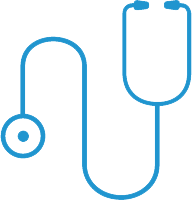
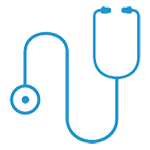
19/4

Changed region(s): [[0.0, 0.0, 1.0, 1.0]]

diff --git a/css/style.css b/css/style.css
@@ -44,6 +44,9 @@ h4 {
 .color {
 	color: #444;
 }
+.container {
+    width: 82%;
+}
 .heading_large {
 	font-size: 57px;
 }
@@ -74,8 +77,11 @@ h4 {
 	background-color: rgba(255,255,255,.5);
 }
 .btn-default.focus,.btn-default:hover,.btn-default:active,.btn-default.active,.open > .dropdown-toggle.btn-default, .btn-primary {
-  	background-color: #31bff1 !important;
-  	color: #fff !important;
+  	color: #fff;
+    border-color: rgb(79,172,254);
+    background: -moz-linear-gradient( 0deg, rgb(79,172,254) 0%, rgb(0,242,254) 100%);
+    background: -webkit-linear-gradient( 0deg, rgb(79,172,254) 0%, rgb(0,242,254) 100%);
+    background: -ms-linear-gradient( 0deg, rgb(79,172,254) 0%, rgb(0,242,254) 100%);
 }
 .btn-primary {
 	border: none;
@@ -186,11 +192,12 @@ h4 {
     width: 100%;   
     margin: auto;
     margin: auto;
-    padding: .5em 0;
+    padding: .35em 0;
     font-family: 'Robotto-Thin';
 }
 .famous_regions_div:hover h2, .famous_events_div:hover h2 {
-	background: url(../images/menu_swipe.png) no-repeat;
+	background: url(../images/menu_swipe.png) no-repeat;	
+    background-size: 100%;
     color: #fff;
     background-size: cover;
     font-weight: 600;
@@ -247,19 +254,18 @@ div.hover_details, .zoom:hover p.normal_details, .zoom:hover img.image_normal, i
 }
 .famous_events_div {
 	padding: 0;
-	height: auto;
-    margin: 0 auto 12%;
+	height: 440px;
+    margin: 0 auto 20%;
     border-radius: 30px !important;
     width: 90%;
-}
-.famous_events_div:hover {
-	background-color: transparent;
 }
 .outer-wrapper{
 	position: relative;
 }
-.outer-wrapper img{
-	width: 100%;
+.outer-wrapper img {
+    width: 100%;
+    height: 440px;
+    border-radius: 30px !important;
 }
 .cover, .trekking_cover, .trekking2_cover, .site_seeing_cover, .paragliding_cover, .fishing_cover, .culture_cover {
 	position: absolute;
@@ -273,22 +279,22 @@ div.hover_details, .zoom:hover p.normal_details, .zoom:hover img.image_normal, i
 	display: block;
 }
 .trekking_cover {
-	background: url(../images/trekking.png) no-repeat 50% 25%;
+	background: url(../images/visas.png) no-repeat 50% 25%;
 }
 .trekking2_cover {
-	background: url(../images/trekking2.png) no-repeat 50% 25%;
+	background: url(../images/best-time.png) no-repeat 50% 25%;
 }
 .site_seeing_cover {
-	background: url(../images/siteseeing2.png) no-repeat 50% 25%;
+	background: url(../images/money-and-costs.png) no-repeat 50% 25%;
 }
 .paragliding_cover {
-	background: url(../images/paraglide2.png) no-repeat 50% 25%;
+	background: url(../images/health.png) no-repeat 50% 25%;
 }
 .fishing_cover {
-	background: url(../images/fishing2.png) no-repeat 50% 25%;
+	background: url(../images/visas.png) no-repeat 50% 25%;
 }
 .culture_cover {
-	background: url(../images/cult2.png) no-repeat 50% 25%;
+	background: url(../images/money-and-costs.png) no-repeat 50% 25%;
 }
 .cover {	
 	background-color: #f6f6f6;
@@ -337,6 +343,9 @@ a.guide_link:hover {
 .left {
 	float: left;
 }
+.tours_image_div {
+	min-height: 230px;
+}
 
 
 
@@ -349,6 +358,12 @@ a.guide_link:hover {
 	    min-height: 200px;
 	    margin-bottom: 15%;
 	}
+	.famous_events_div {
+		height: 420px;
+	}
+	.outer-wrapper img {
+	    height: 420px;
+	}
 	.footer > .col-sm-8 {
 		width: 100%;
 		margin: auto;
@@ -357,6 +372,11 @@ a.guide_link:hover {
 	    display: inline-block;
 	    padding: 1em;
 	} 
+}
+@media (min-width: 992px) {
+  .container {
+    width: 82%;
+  }
 }
 @media (max-width: 768px) {
 	.famous_regions_div {
@@ -370,6 +390,15 @@ a.guide_link:hover {
 	    position: relative;
 	    top: 12%;
 	}
+	.famous_events_div {
+		height: 360px;
+	}
+	.outer-wrapper img {
+	    height: 360px;
+	}
+	.container {
+	    width: 82%;
+	  }
 }
 @media (max-width: 767px) {
 	.intro-text {
@@ -394,4 +423,14 @@ a.guide_link:hover {
 	.footer ul {
 	    padding: 0;
 	}
+	@media (max-width: 500px) {
+	.famous_events_div {
+		height: 320px;
+	}
+	.outer-wrapper img {
+	    height: 320px;
+	}
 }
+}
+
+

diff --git a/details.php b/details.php
@@ -36,8 +36,8 @@
 			<!-- TREKKING dIV -->
 			<div class="col-lg-4 col-sm-6 col-xs-12">
 				<div class="text-center zoom famous_events_div outer-wrapper margins padding">
-					<img id="trekking_normal" class="image_normal" src="./images/Swat_valley_blurred.png" />
-					<img id="trekking_hover" class="image_hover" src="./images/Swat_valley_blurred.png" />	
+					<img id="trekking_normal" class="image_normal" src="images/Swat_valley_blurred.png" />
+					<img id="trekking_hover" class="image_hover" src="images/img-1.jpg" />	
 					<div class="cover trekking_cover">
 						<div class="has_wrapper">
 							<h2 class="color-black">Trekking</h2>
@@ -58,8 +58,8 @@
 			<!-- TREKKING 2 dIV -->
 			<div class="col-lg-4 col-sm-6 col-xs-12">
 				<div class="text-center zoom famous_events_div outer-wrapper margins padding">
-					<img id="trekking2_normal" class="image_normal" src="./images/Swat_valley_blurred.png" />
-					<img id="trekking2_hover" class="image_hover" src="./images/Swat_valley_blurred.png" />	
+					<img id="trekking2_normal" class="image_normal" src="images/Swat_valley_blurred.png" />
+					<img id="trekking2_hover" class="image_hover" src="images/img-2.jpg" />	
 					<div class="cover trekking2_cover">
 						<div class="has_wrapper">
 							<h2 class="color-black">Trekking</h2>
@@ -81,7 +81,7 @@
 			<div class="col-lg-4 col-sm-6 col-xs-12">
 				<div class="text-center zoom famous_events_div outer-wrapper margins padding">
 					<img id="trekking_normal" class="image_normal" src="./images/Swat_valley_blurred.png" />
-					<img id="trekking_hover" class="image_hover" src="./images/Swat_valley_blurred.png" />	
+					<img id="trekking_hover" class="image_hover" src="./images/img-3.jpg" />	
 					<div class="cover site_seeing_cover">
 						<div class="has_wrapper">
 							<h2 class="color-black">Site Seeing</h2>
@@ -103,7 +103,7 @@
 			<div class="col-lg-4 col-sm-6 col-xs-12">
 				<div class="text-center zoom famous_events_div outer-wrapper margins padding">
 					<img id="trekking_normal" class="image_normal" src="./images/Swat_valley_blurred.png" />
-					<img id="trekking_hover" class="image_hover" src="./images/Swat_valley_blurred.png" />	
+					<img id="trekking_hover" class="image_hover" src="./images/img-4.jpg" />	
 					<div class="cover paragliding_cover">
 						<div class="has_wrapper">
 							<h2 class="color-black">Paragliding</h2>
@@ -125,7 +125,7 @@
 			<div class="col-lg-4 col-sm-6 col-xs-12">
 				<div class="text-center zoom famous_events_div outer-wrapper margins padding">
 					<img id="trekking_normal" class="image_normal" src="./images/Swat_valley_blurred.png" />
-					<img id="trekking_hover" class="image_hover" src="./images/Swat_valley_blurred.png" />	
+					<img id="trekking_hover" class="image_hover" src="./images/img-5.jpg" />	
 					<div class="cover fishing_cover">
 						<div class="has_wrapper">
 							<h2 class="color-black">Fishing</h2>
@@ -147,7 +147,7 @@
 			<div class="col-lg-4 col-sm-6 col-xs-12">
 				<div class="text-center zoom famous_events_div outer-wrapper margins padding">
 					<img id="trekking_normal" class="image_normal" src="./images/Swat_valley_blurred.png" />
-					<img id="trekking_hover" class="image_hover" src="./images/Swat_valley_blurred.png" />	
+					<img id="trekking_hover" class="image_hover" src="./images/img-6.jpg" />	
 					<div class="cover culture_cover">
 						<div class="has_wrapper">
 							<h2 class="color-black">Culture</h2>
@@ -296,31 +296,39 @@
 					<!-- LEFT CONTAINER DIV -->
 					<div class="col-lg-10">
 						<div class="col-lg-6 col-md-6 col-sm-12">
-							<!-- LEFT IMAGE DIV -->
-							<div class="col-lg-6 col-md-6 col-sm-12">
-								<img id="visa_guide" class="img img-responsive" src="images/sample_image _4.png" />
-								<p class="color-black">SMALL GROUP TOUR</p>
-								<p class="event_cost left">Rs. 5000</p>
+							<div class="margins">
+								<!-- LEFT IMAGE DIV -->
+								<div class="col-lg-6 col-md-6 col-sm-12">
+									<div class="tours_image_div">
+										<img id="visa_guide" class="img img-responsive" src="images/sample_image _4.png" />
+										<p class="color-black">SMALL GROUP TOUR</p>
+										<p class="event_cost left">Rs. 5000</p>
+									</div>
+								</div>	
+								<!-- LEFT TEXT DIV -->
+								<div class="col-lg-6 col-md-6 col-sm-12">
+									<h3 class="color-black">Private Tour 4-Day Naran Trip From Peshawar with awesome activities</h3>
+									<p class="color-text">Lorem ipsum dolor sit amet, consectetur adipiscing elit</p>
+								</div>
 							</div>	
-							<!-- LEFT TEXT DIV -->
-							<div class="col-lg-6 col-md-6 col-sm-12">
-								<h3 class="color-black">Private Tour 4-Day Naran Trip From Peshawar with awesome activities</h3>
-								<p class="color-text">Lorem ipsum dolor sit amet, consectetur adipiscing elit</p>
-							</div>
-						</div>	
+						</div>
 
 						<!-- RIGHT CONTAINER DIV -->
 						<div class="col-lg-6 col-md-6 col-sm-12">
-							<!-- RIGHT IMAGE DIV -->
-							<div class="col-lg-6 col-md-6 col-sm-12">
-								<img id="visa_guide" class="img img-responsive" src="images/sample_image_2.png" />
-								<p class="color-black">SMALL GROUP TOUR</p>
-								<p class="event_cost left">Rs. 5000</p>
-							</div>	
-							<!-- RIGHT TEXT DIV -->
-							<div class="col-lg-6 col-md-6 col-sm-12">
-								<h3 class="color-black">Private Tour 4-Day Naran Trip From Peshawar with awesome activities</h3>
-								<p class="color-text">Lorem ipsum dolor sit amet, consectetur adipiscing elit</p>
+								<div class="margins">
+								<!-- RIGHT IMAGE DIV -->
+								<div class="col-lg-6 col-md-6 col-sm-12">
+									<div class="tours_image_div">
+										<img id="visa_guide" class="img img-responsive" src="images/sample_image_2.png" />
+										<p class="color-black">SMALL GROUP TOUR</p>
+										<p class="event_cost left">Rs. 5000</p>
+									</div>	
+								</div>
+								<!-- RIGHT TEXT DIV -->
+								<div class="col-lg-6 col-md-6 col-sm-12">
+									<h3 class="color-black">Private Tour 4-Day Naran Trip From Peshawar with awesome activities</h3>
+									<p class="color-text">Lorem ipsum dolor sit amet, consectetur adipiscing elit</p>
+								</div>
 							</div>
 						</div>
 						<div class="col-lg-1"></div>
@@ -333,33 +341,42 @@
 					<!-- LEFT CONTAINER DIV -->
 					<div class="col-lg-10">
 						<div class="col-lg-6 col-md-6 col-sm-12">
+							<div class="margins">
 							<!-- LEFT IMAGE DIV -->
-							<div class="col-lg-6 col-md-6 col-sm-12">
-								<img id="visa_guide" class="img img-responsive" src="images/sample_image_2.png" />
-								<p class="color-black">SMALL GROUP TOUR</p>
-								<p class="event_cost left">Rs. 5000</p>
+								<div class="col-lg-6 col-md-6 col-sm-12">
+									<div class="tours_image_div">
+										<img id="visa_guide" class="img img-responsive" src="images/sample_image_2.png" />
+										<p class="color-black">SMALL GROUP TOUR</p>
+										<p class="event_cost left">Rs. 5000</p>
+									</div>	
+								</div>
+								<!-- LEFT TEXT DIV -->
+								<div class="col-lg-6 col-md-6 col-sm-12">
+									<h3 class="color-black">Private Tour 4-Day Naran Trip From Peshawar with awesome activities</h3>
+									<p class="color-text">Lorem ipsum dolor sit amet, consectetur adipiscing elit</p>
+								</div>
 							</div>	
-							<!-- LEFT TEXT DIV -->
-							<div class="col-lg-6 col-md-6 col-sm-12">
-								<h3 class="color-black">Private Tour 4-Day Naran Trip From Peshawar with awesome activities</h3>
-								<p class="color-text">Lorem ipsum dolor sit amet, consectetur adipiscing elit</p>
-							</div>
-						</div>	
+						</div>
 
 						<!-- RIGHT CONTAINER DIV -->
 						<div class="col-lg-6 col-md-6 col-sm-12">
-							<!-- RIGHT IMAGE DIV -->
-							<div class="col-lg-6 col-md-6 col-sm-12">
-								<img id="visa_guide" class="img img-responsive" src="images/sample_image _4.png" />
-								<p class="color-black">SMALL GROUP TOUR</p>
-								<p class="event_cost left">Rs. 5000</p>
-							</div>	
-							<!-- RIGHT TEXT DIV -->
-							<div class="col-lg-6 col-md-6 col-sm-12">
-								<h3 class="color-black">Private Tour 4-Day Naran Trip From Peshawar with awesome activities</h3>
-								<p class="color-text">Lorem ipsum dolor sit amet, consectetur adipiscing elit</p>
+							<div class="margins">
+								<!-- RIGHT IMAGE DIV -->
+								<div class="col-lg-6 col-md-6 col-sm-12">
+									<div class="tours_image_div">
+										<img id="visa_guide" class="img img-responsive" src="images/sample_image _4.png" />
+										<p class="color-black">SMALL GROUP TOUR</p>
+										<p class="event_cost left">Rs. 5000</p>
+									</div>
+								</div>	
+								<!-- RIGHT TEXT DIV -->
+								<div class="col-lg-6 col-md-6 col-sm-12">
+									<h3 class="color-black">Private Tour 4-Day Naran Trip From Peshawar with awesome activities</h3>
+									<p class="color-text">Lorem ipsum dolor sit amet, consectetur adipiscing elit</p>
+								</div>
 							</div>
 						</div>
+
 						<div class="col-lg-1"></div>
 					</div>	
 				</div>

diff --git a/index.php b/index.php
@@ -35,14 +35,18 @@
 		<div class="row margins">
 			<!-- DISCOVER -->
 			<div class="col-sm-6 text-center right-separation animated SlideInLeft">
-				<img src="images/discover-01.png" alt="" class="img img-responsive auto-margin">
+				<object type="image/svg+xml" data="images/home_page_illlustrations-02.svg" width="50%" height="auto">
+				 	<param name="src" value="images/home_page_illlustrations-02.svg">
+				</object>
 				<h2 class="color-blue">Discover</h2>
 				<p class="color-text intro-text">Lorem ipsum dolor sit amet, consectetur adipiscing elit, sed do eiusmod tempor incididunt ut labore et dolore magna aliqua. </p>
 				<a href="discover.php"><button class="btn btn-default">GO</button></a>
 			</div>
 			<!-- NAVIGATE -->
 			<div class="col-sm-6 text-center left-separation small-screen-margin animated SlideInRight">
-				<img src="images/discover2-01.png" alt="" class="img img-responsive auto-margin">
+				<object type="image/svg+xml" data="images/home_page_illlustrations-03.svg" width="50%" height="auto">
+				 	<param name="src" value="images/home_page_illlustrations-03.svg">
+				</object>
 				<h2 class="color-blue">Navigation</h2>
 				<p class="color-text intro-text">Lorem ipsum dolor sit amet, consectetur adipiscing elit, sed do eiusmod tempor incididunt ut labore et dolore magna aliqua. </p>
 				<a href="#"><button class="btn btn-default">GO</button></a>
